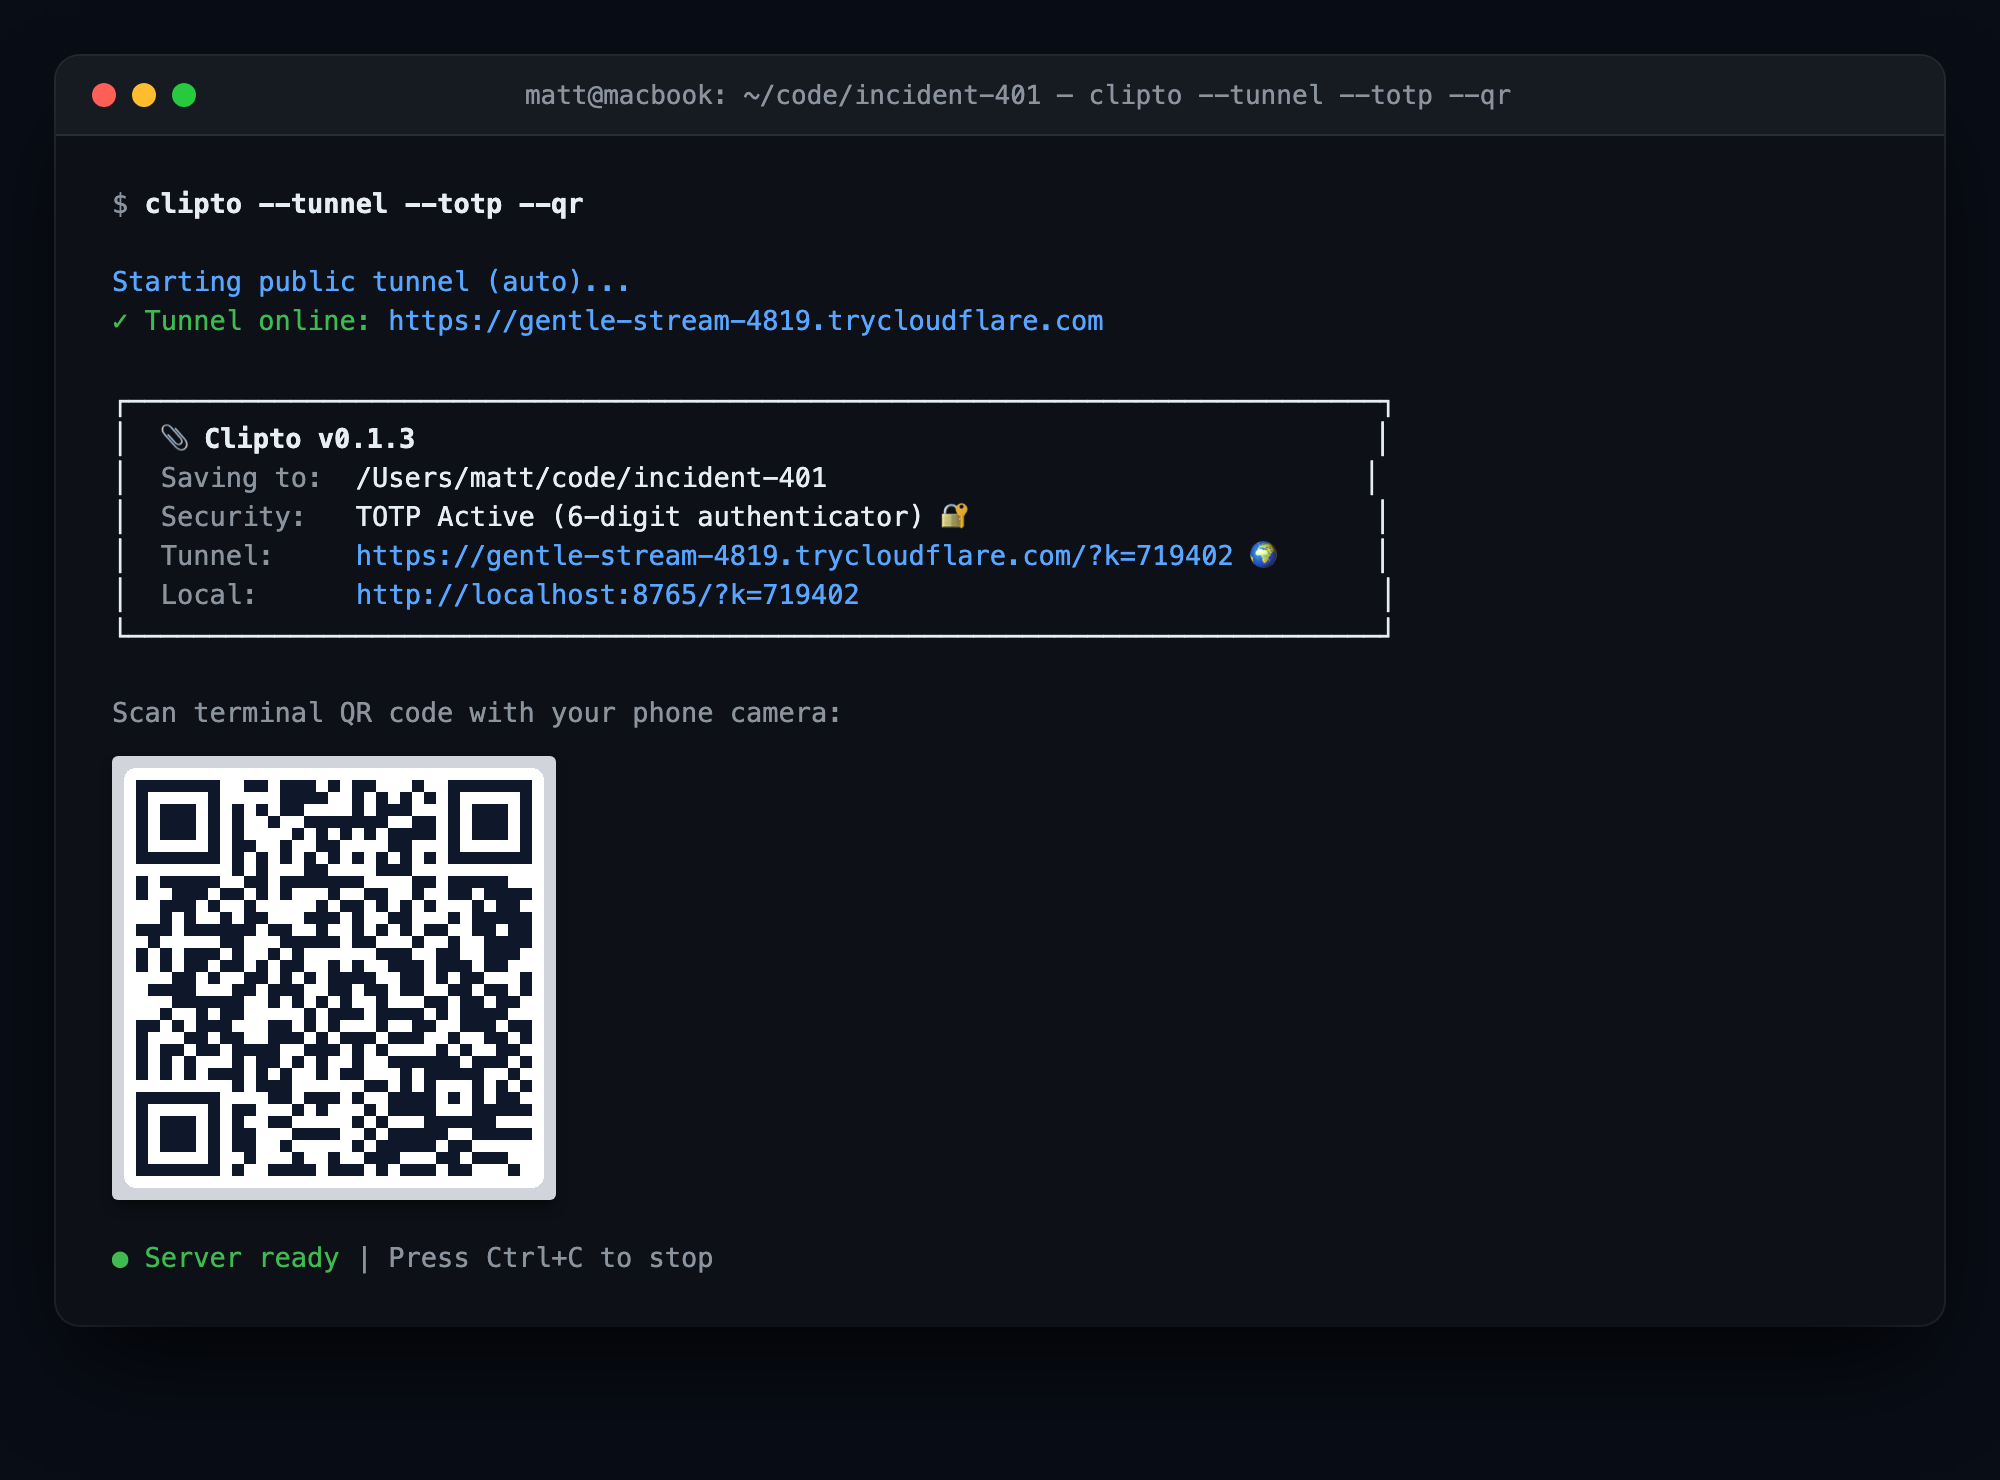
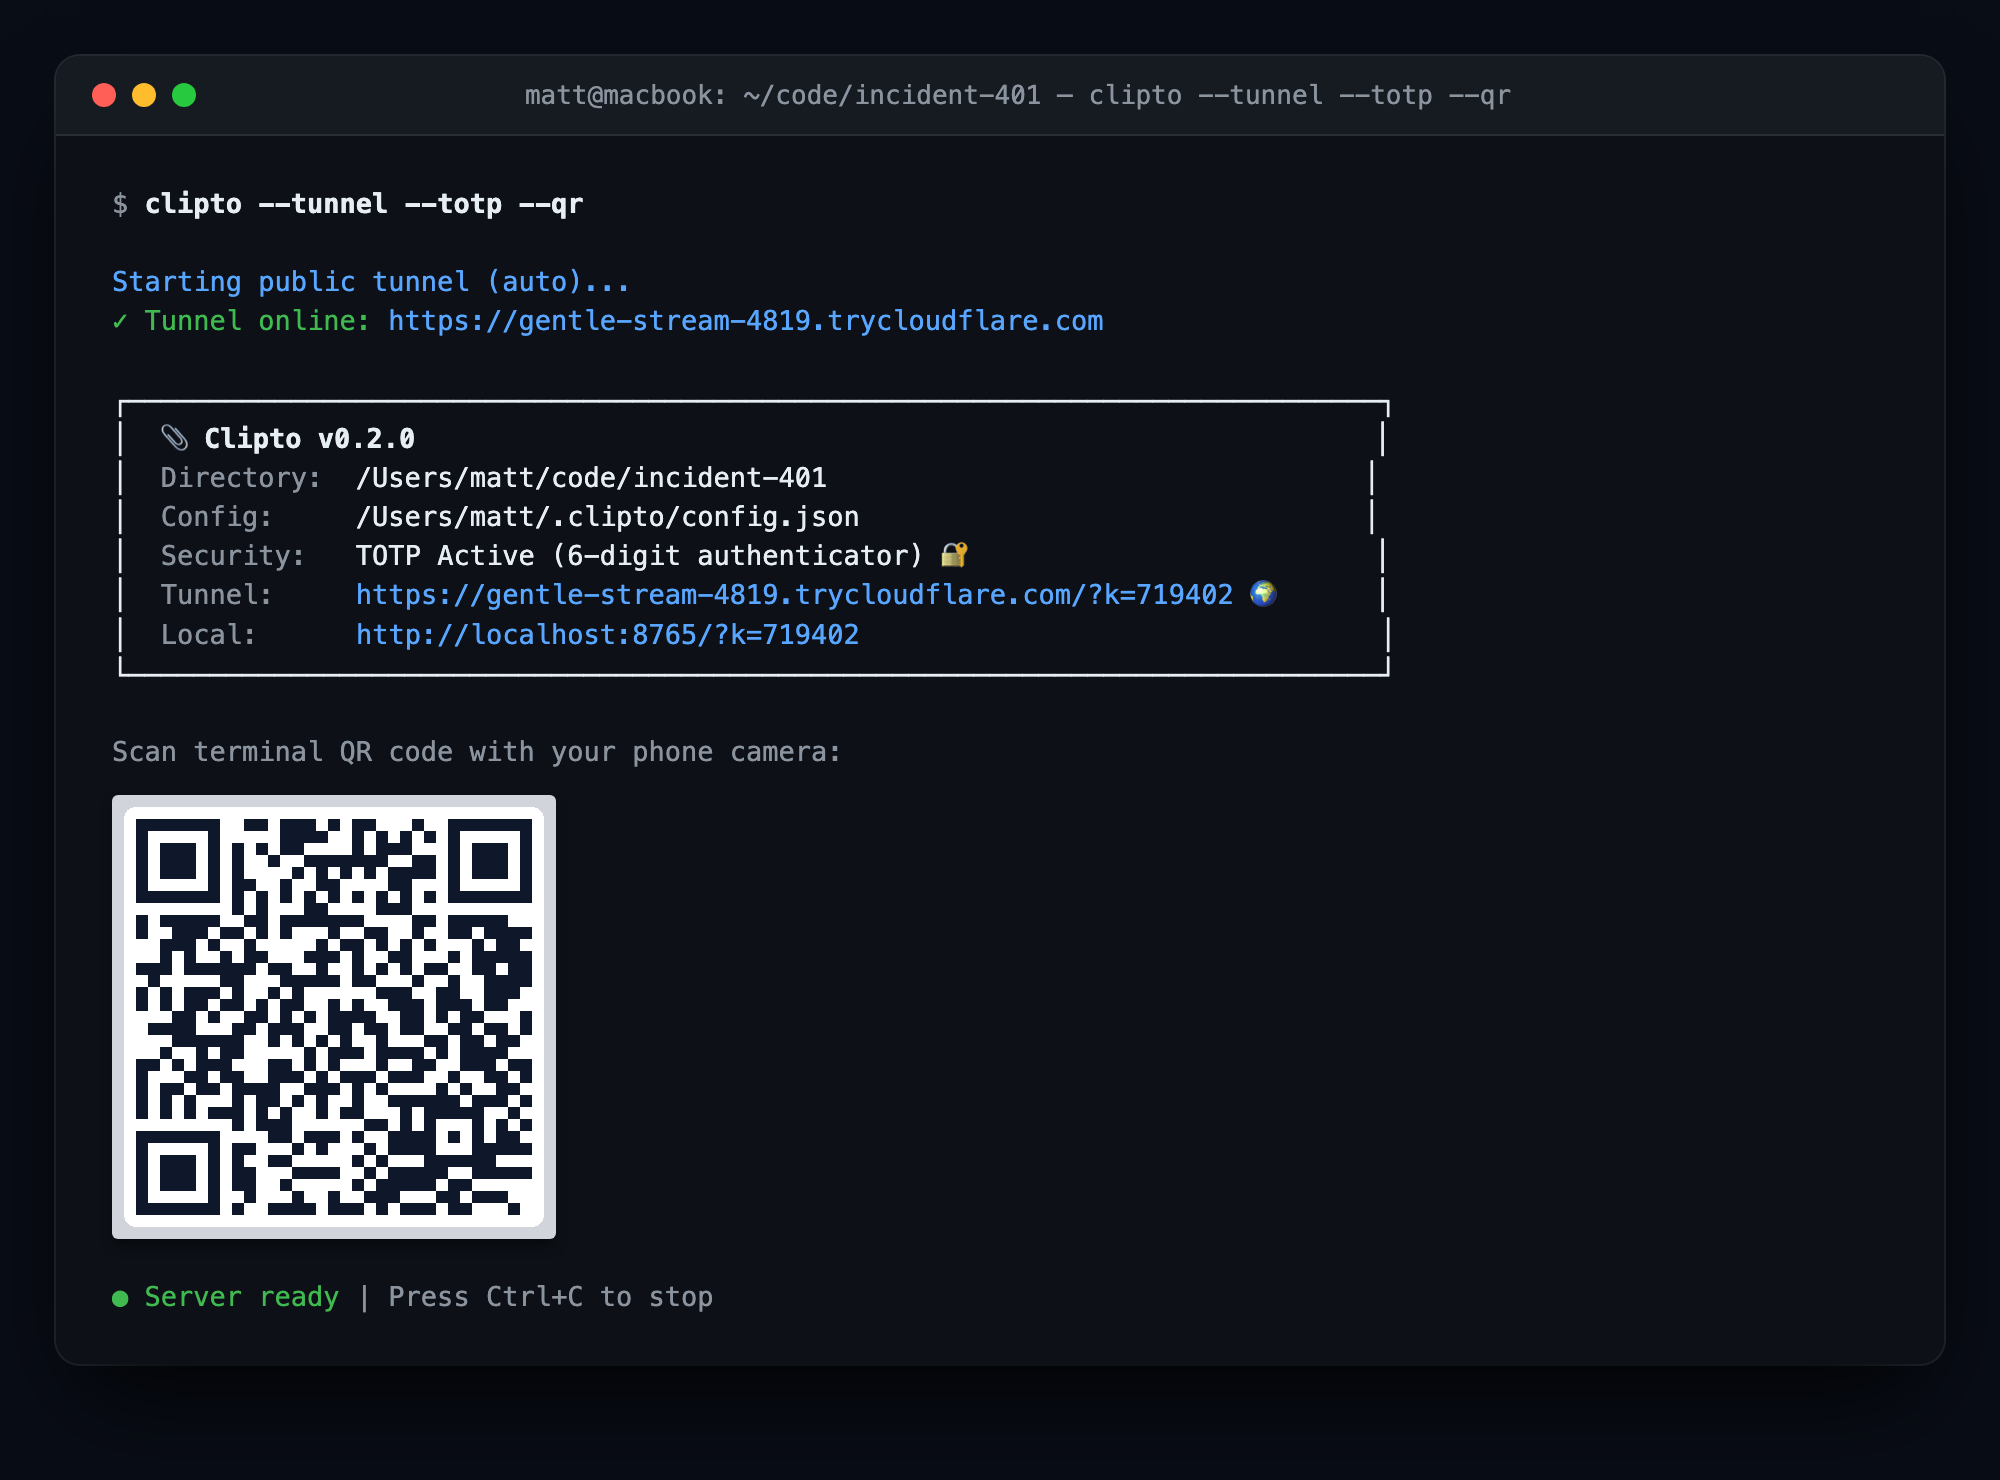
docs: update README with Gists, Files browser, Settings, and bump version to v0.2.0

Changed region(s): [[0.031, 0.4662, 0.403, 0.9014], [0.062, 0.3108, 0.651, 0.4351]]

diff --git a/src/clipto/__init__.py b/src/clipto/__init__.py
@@ -1,4 +1,4 @@
 """Clipto: Instant clipboard, screenshot, and file bridge from browser to terminal."""
 
-__version__ = "0.1.3"
+__version__ = "0.2.0"
 __all__ = ["__version__"]

diff --git a/README.md b/README.md
@@ -19,11 +19,14 @@ Ever run an AI agent, Docker container, or SSH session on a remote server, but n
 ## ✨ Features
 
 - **⚡ Zero-Click Paste:** Open the page and press `Cmd+V` or `Ctrl+V` anywhere. No buttons or input selection required.
-- **📄 Private Gists & File Sharing (`clipto share [path]`):** Instant private gist viewer and outbound file bridge. Browse directory files, preview code with line numbers, or stream binaries.
-- **⚡ 1-Click `curl` Copy:** Copy direct `curl` commands from the terminal banner or web UI to pipe files directly to remote servers or terminal sessions.
+- **📄 Interactive Private Gists:** Dedicated Gist tab with an in-browser `+ New Gist` creator, code viewer with line numbers, 1-click raw clipboard copy, and direct `curl` download commands.
+- **📁 Files Browser (Grid & List View):** Switch between a compact file table and visual card grid with image thumbnails, file previews, and instant search filtering.
+- **⚙ Settings & Tab Customization (<kbd>Cmd+,</kbd> / <kbd>Ctrl+,</kbd>):** Reorder tabs (e.g. `Gist | Upload & Paste | Files`) to fit your workflow, saved automatically to global config (`~/.clipto/config.json`).
+- **🎯 Streamlined Icon Action Bar:** 1-click header buttons to copy target directory path, copy host name, open phone QR modal, access connection help, and configure settings.
+- **⚡ 1-Click `curl` Commands:** Copy direct `curl` commands from the terminal banner or web UI to pipe files directly to remote servers or terminal sessions.
 - **🖼 Thumbnail Grid & Lightbox:** Visual thumbnail cards with click-to-enlarge full-screen preview.
 - **🚇 Public HTTPS Tunnels (`--tunnel`):** Instant, secure internet access from cellular or remote servers via Cloudflare Quick Tunnels.
-- **🔒 Direct HTTPS & Self-Signed Certs (`--self-signed` / `--cert`):** Enable local HTTPS so remote/LAN browsers have full clipboard read & write access.
+- **🔒 Direct HTTPS & Self-Signed Certs (`--self-signed` / `--cert`):** Enable local HTTPS with automatic SANs and HTTP-to-HTTPS redirect for full remote clipboard read & write access.
 - **📱 Phone QR Code (`--qr`):** Print a high-contrast terminal QR code or click "Phone QR" in the web UI to snap and upload from your phone camera.
 - **🔐 Authenticator App TOTP (`--totp` / `--totp-setup`):** 6-digit rolling codes with Google Authenticator, Microsoft Authenticator, 1Password, or Apple Passwords.
 - **🔒 PIN & Password Protection (`--pin` / `--pass`):** Protect access with an auto-generated 4-digit PIN or custom passphrase (auto-enabled on `--tunnel`).
@@ -89,9 +92,10 @@ clipto my_script.py
 Clipto formats a direct `curl` command right in the terminal banner:
 ```text
 ┌────────────────────────────────────────────────────────────────────────┐
-│ 📎 Clipto v0.1.3 [SHARING FILE]                                        │
+│ 📎 Clipto v0.2.0 [SHARING FILE]                                        │
 │ File:       deploy.sh (3.2 KB)                                         │
 │ Directory:  /Users/matt/code/project                                   │
+│ Config:     /Users/matt/.clipto/config.json                            │
 │ Local:      http://localhost:8765                                      │
 │ Network:    http://192.168.1.100:8765                                  │
 │ Curl (CLI): curl -sSL "http://localhost:8765/raw/deploy.sh" -o deploy.sh│
@@ -108,12 +112,33 @@ Combine `share` with `--once` to serve the file exactly once and terminate immed
 clipto share app-binary --once
 ```
 
-### 3. In-Browser Gist Viewer & Directory Browser
+### 3. Interactive Private Gists & Code Viewer
 
-Run `clipto share` (or `clipto share /path/to/folder`) and click the **Files & Gists** tab:
-* **Interactive Code Viewer:** Click any text or script file to view formatted code with line numbers, 1-click "Copy Raw", and direct download.
+Click the **Gist** tab to view, create, and share private code snippets:
+* **`+ New Gist` Creator:** Click `+ New Gist` to draft code, select syntax or filename, and save immediately.
+* **Line Numbers & 1-Click Copy:** View clean code with line numbers, click **Copy Gist** to copy raw content to your clipboard, or trigger direct browser downloads.
+* **1-Click `curl` Command:** Copy direct `curl` commands to pipe or download scripts on any remote machine.
+
+<p align="center">
+  <img src="assets/clipto-gist-viewer.png" alt="Clipto Interactive Gist Viewer" width="850">
+</p>
+
+### 4. Files Browser (Grid & List View)
+
+Click the **Files** tab to browse everything in the active directory:
+* **Grid & List Views:** Toggle between a compact file table and a responsive card grid with image thumbnails and document previews.
+* **Direct Downloads & curl:** Download any file with a single click or copy CLI curl commands.
 * **Instant Search Filter:** Real-time search by filename or extension.
-* **1-Click curl Command:** Copy CLI download commands directly from each row in the browser.
+
+<p align="center">
+  <img src="assets/clipto-files-browser.png" alt="Clipto Files Browser" width="850">
+</p>
+
+### 5. Settings & Tab Customization
+
+Press <kbd>Cmd+,</kbd> (Mac) or <kbd>Ctrl+,</kbd> (Windows/Linux)—or click the gear icon (`⚙`) in the top right header—to open the **Settings** modal:
+* **Custom Tab Order:** Reorder your segmented tabs (e.g. `Gist | Upload & Paste | Files` or `Files | Gist`) using interactive up/down controls.
+* **Global Configuration:** Preferences are automatically saved in `~/.clipto/config.json`. The active path is displayed in both the settings modal and the startup terminal banner.
 
 ---
 
